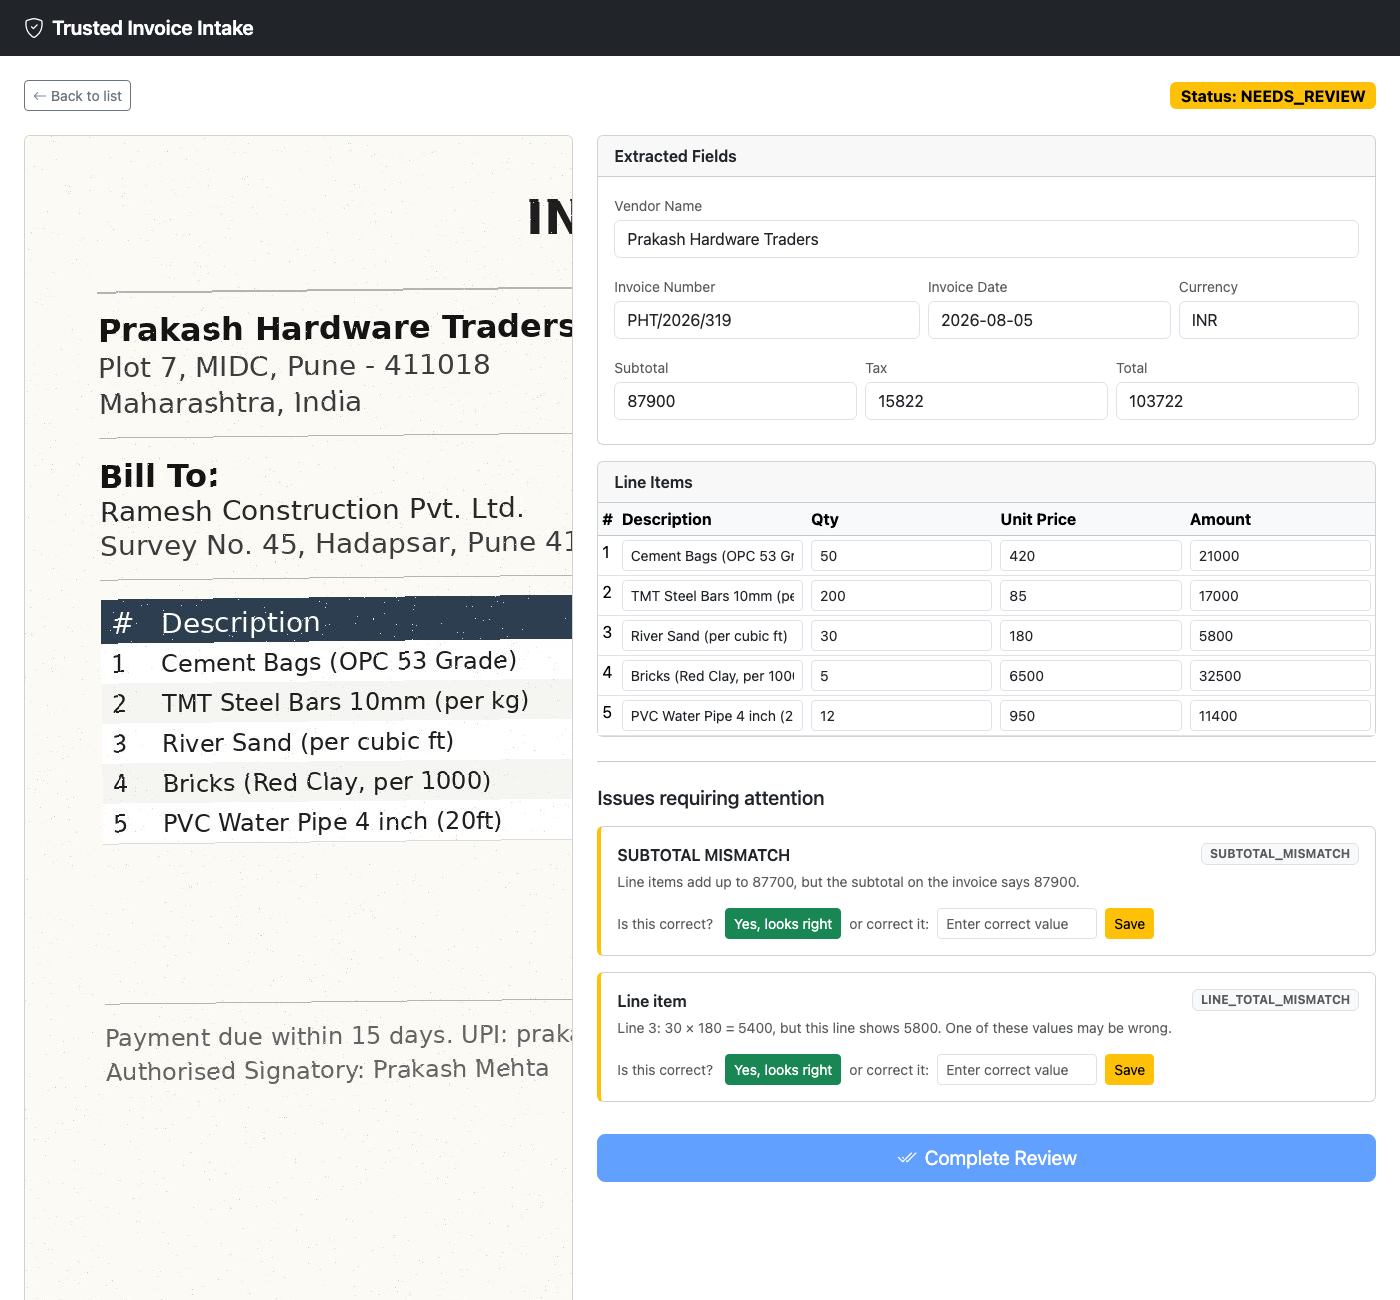
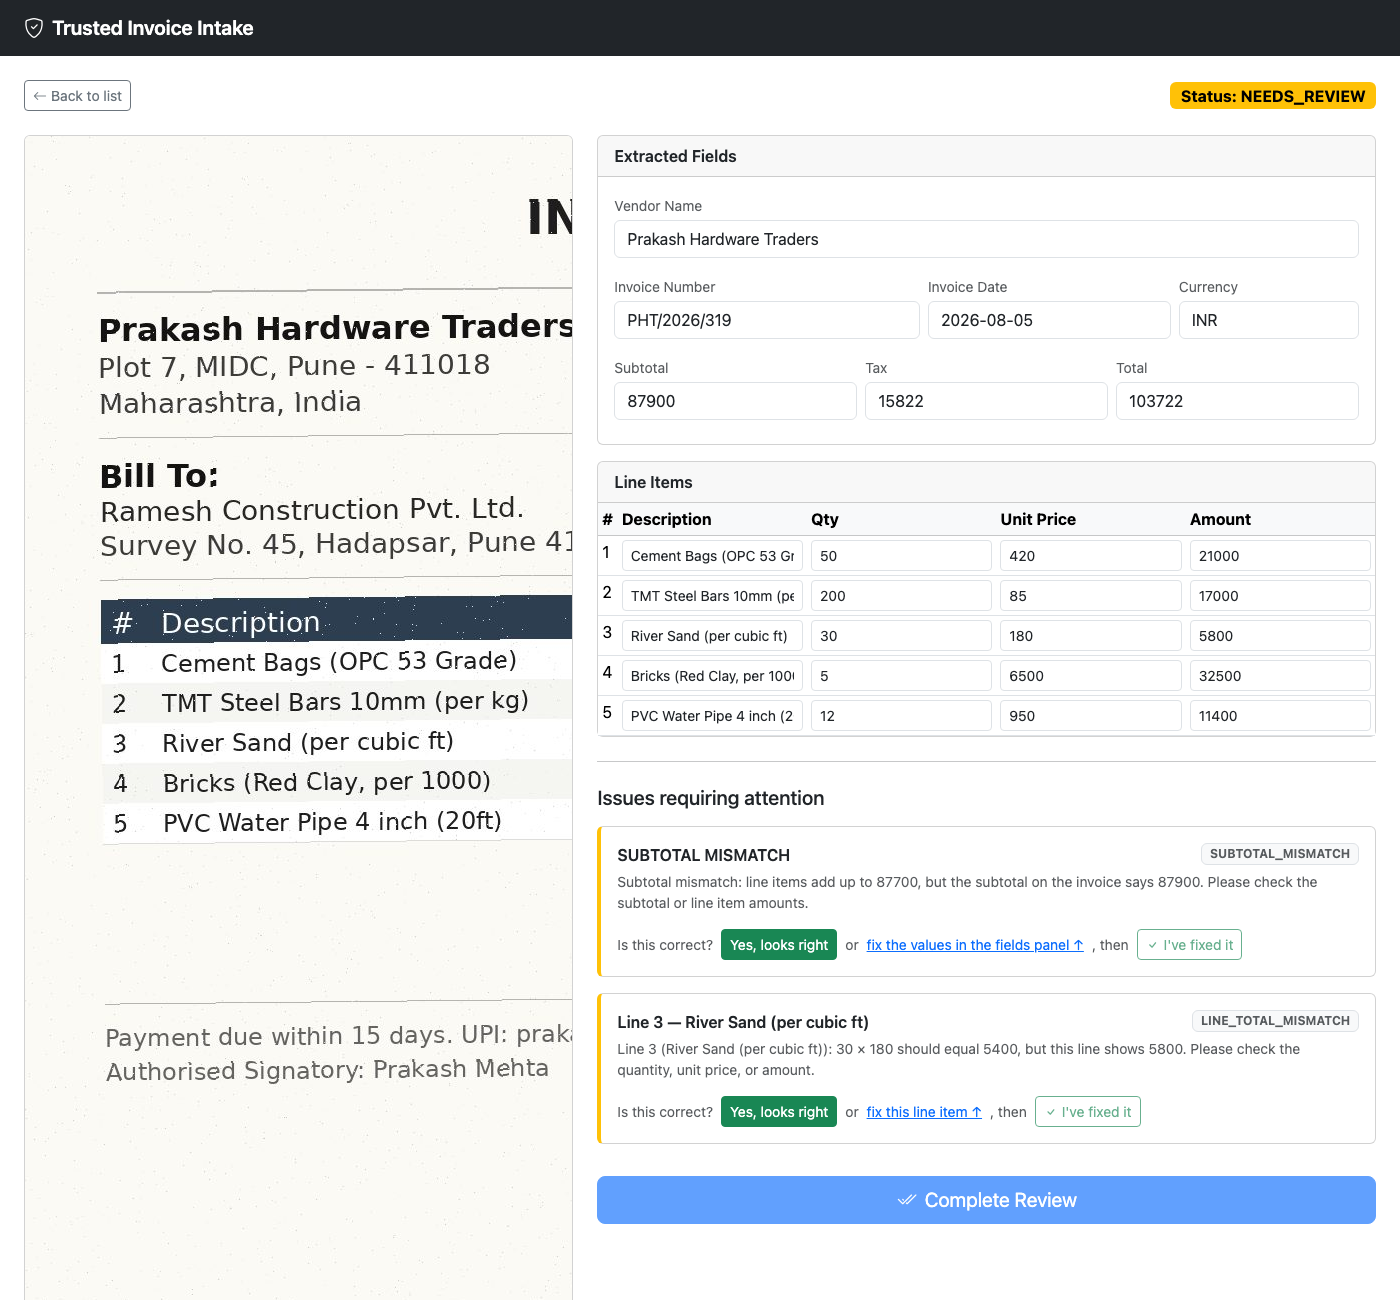
fix: clickable scroll links on multi-field failure cards, refresh outdated README screenshot
- Replace vague "in the fields above"/"in the line item above" text with
  clickable links that scroll to and highlight the actual extracted-fields
  panel or line item row.
- Regenerate docs/needs-review-screenshot.png — the previous one predated
  the "I've fixed it" button and scroll links.
- Remove two decisions.md entries that no longer reflect current behavior
  ("Human review: approved rules skipped across sessions" is still true
  but redundant with the newer duplicate-detection entry's framing;
  "UX: Failure cards ask one question" is superseded by the more specific
  multi-field-card entries added since).

Changed region(s): [[0.3993, 0.6769, 0.9829, 0.9538]]

diff --git a/src/main/resources/templates/invoices/detail.html b/src/main/resources/templates/invoices/detail.html
@@ -174,7 +174,7 @@
                 <div class="col-lg-7">
 
                     <!-- Extracted Fields Panel — a yellow border means low OCR confidence; hover for the exact number. -->
-                    <div class="card mb-3">
+                    <div class="card mb-3" id="extracted-fields-panel">
                         <div class="card-header fw-semibold">Extracted Fields</div>
                         <div class="card-body">
                             <div class="row g-2">
@@ -395,7 +395,9 @@
                                         title="The values are correct as extracted">
                                     Yes, looks right
                                 </button>
-                                <span class="text-muted small">or fix the values in the fields above, then</span>
+                                <span class="text-muted small">or</span>
+                                <a href="#extracted-fields-panel" class="small scroll-to-section-link" data-target="extracted-fields-panel">fix the values in the fields panel ↑</a>
+                                <span class="text-muted small">, then</span>
                                 <button class="btn btn-sm btn-outline-success resolve-btn ive-fixed-it-btn"
                                         th:attr="data-failure-id=${failure.id}"
                                         data-scope="INVOICE"
@@ -416,7 +418,9 @@
                                         title="The line item values are correct as extracted">
                                     Yes, looks right
                                 </button>
-                                <span class="text-muted small">or fix quantity, unit price, or amount in the line item above, then</span>
+                                <span class="text-muted small">or</span>
+                                <a href="#" class="small scroll-to-line-link" th:attr="data-line-item-id=${failure.lineItemId}">fix this line item ↑</a>
+                                <span class="text-muted small">, then</span>
                                 <button class="btn btn-sm btn-outline-success resolve-btn ive-fixed-it-btn"
                                         th:attr="data-failure-id=${failure.id},data-line-item-id=${failure.lineItemId}"
                                         data-scope="LINE_ITEM"

diff --git a/src/main/resources/static/js/app.js b/src/main/resources/static/js/app.js
@@ -407,6 +407,51 @@ function wireFixedItButtons() {
 
 wireFixedItButtons();
 
+// Scroll targets for the "fix the values in the fields panel ↑" / "fix this line item ↑" links
+// on multi-field failure cards — replaces vague "above" text with something that actually takes
+// the reviewer there and highlights what to look at.
+function scrollToSection(id) {
+    const el = document.getElementById(id);
+    if (!el) {
+        return;
+    }
+    el.scrollIntoView({ behavior: 'smooth', block: 'start' });
+    el.style.transition = 'box-shadow 0.3s ease';
+    el.style.boxShadow = '0 0 0 2px #ffc107';
+    setTimeout(() => {
+        el.style.boxShadow = '';
+    }, 2000);
+}
+
+function scrollToLineItem(lineItemId) {
+    const row = document.getElementById('line-item-' + lineItemId);
+    if (!row) {
+        return;
+    }
+    row.scrollIntoView({ behavior: 'smooth', block: 'center' });
+    row.querySelectorAll('input').forEach((inp) => {
+        inp.classList.add('border-warning', 'border-2');
+    });
+    setTimeout(() => {
+        row.querySelectorAll('input').forEach((inp) =>
+            inp.classList.remove('border-warning', 'border-2'));
+    }, 2000);
+}
+
+document.querySelectorAll('.scroll-to-section-link').forEach((link) => {
+    link.addEventListener('click', (e) => {
+        e.preventDefault();
+        scrollToSection(link.dataset.target);
+    });
+});
+
+document.querySelectorAll('.scroll-to-line-link').forEach((link) => {
+    link.addEventListener('click', (e) => {
+        e.preventDefault();
+        scrollToLineItem(link.dataset.lineItemId);
+    });
+});
+
 function recordResolution(failureId, action, fieldName, lineItemId) {
     // Every card's correction, invoice-field or line-item, now comes from its own inline input —
     // the backend resolves which field a fieldless failure (e.g. LINE_TOTAL_MISMATCH) implies.

diff --git a/decisions.md b/decisions.md
@@ -164,26 +164,6 @@ once (`DUPLICATE_DISMISSED`) isn't asked about that same pair again.
 
 ---
 
-## Human review: approved rules skipped across sessions
-
-**Decision:** When a human approves a validation failure (e.g.
-accepts a known subtotal mismatch), that rule is suppressed in
-all future revalidation passes for that invoice — not just the
-current session.
-
-**Reasoning:** discovered during UI testing that approving
-LOW_OCR_CONFIDENCE in one review round and OCR_SOURCE_NOT_FOUND in
-the next caused an infinite oscillating loop — each round's
-revalidation had no memory of what was approved in a prior round,
-so it could resurrect a rule the reviewer had already signed off
-on, and the invoice could never reach ACCEPTED. Fixed by reading
-previously-approved rules from the database
-(`findByInvoiceIdAndAction`) before revalidation and unioning them
-with the current round's approvals into the skip-set. APPROVED is
-a durable human decision, not a session-scoped hint.
-
----
-
 ## Database: single schema, four tables
 
 **Decision:** invoice, invoice_line_item, extraction_evidence,
@@ -310,21 +290,6 @@ the pattern already used everywhere else in the review screen.
 - **Vendor-specific parsers:** cross-extraction agreement
   via normalized text matching is sufficient and avoids
   maintaining a parser per vendor layout.
-
----
-
-## UX: Failure cards ask one question, not show mechanism
-
-**Decision:** Each failure card asks "Is this correct?" with two
-answers: approve or correct. Removed scope badges (INVOICE_FIELD,
-LINE_ITEM), "Go to field" buttons, and technical rule names from
-the visible UI.
-
-**Reasoning:** A finance user doesn't know what "OCR source word
-could not be located" means. Showing mechanism instead of guidance
-creates confusion. The rule name is still available as a badge
-(small, right-aligned) for engineers who need it, but it's not
-the primary information.
 
 ---
 
